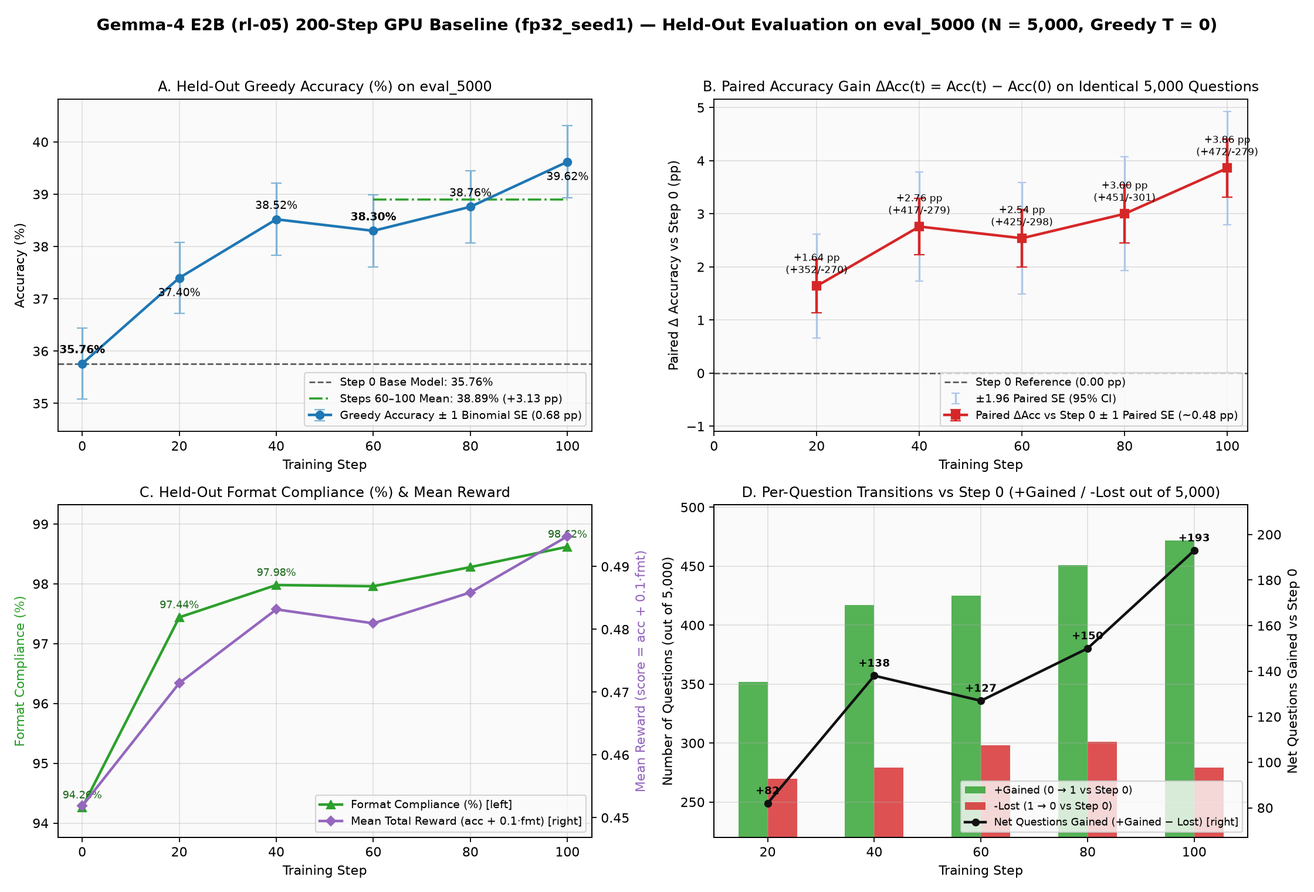
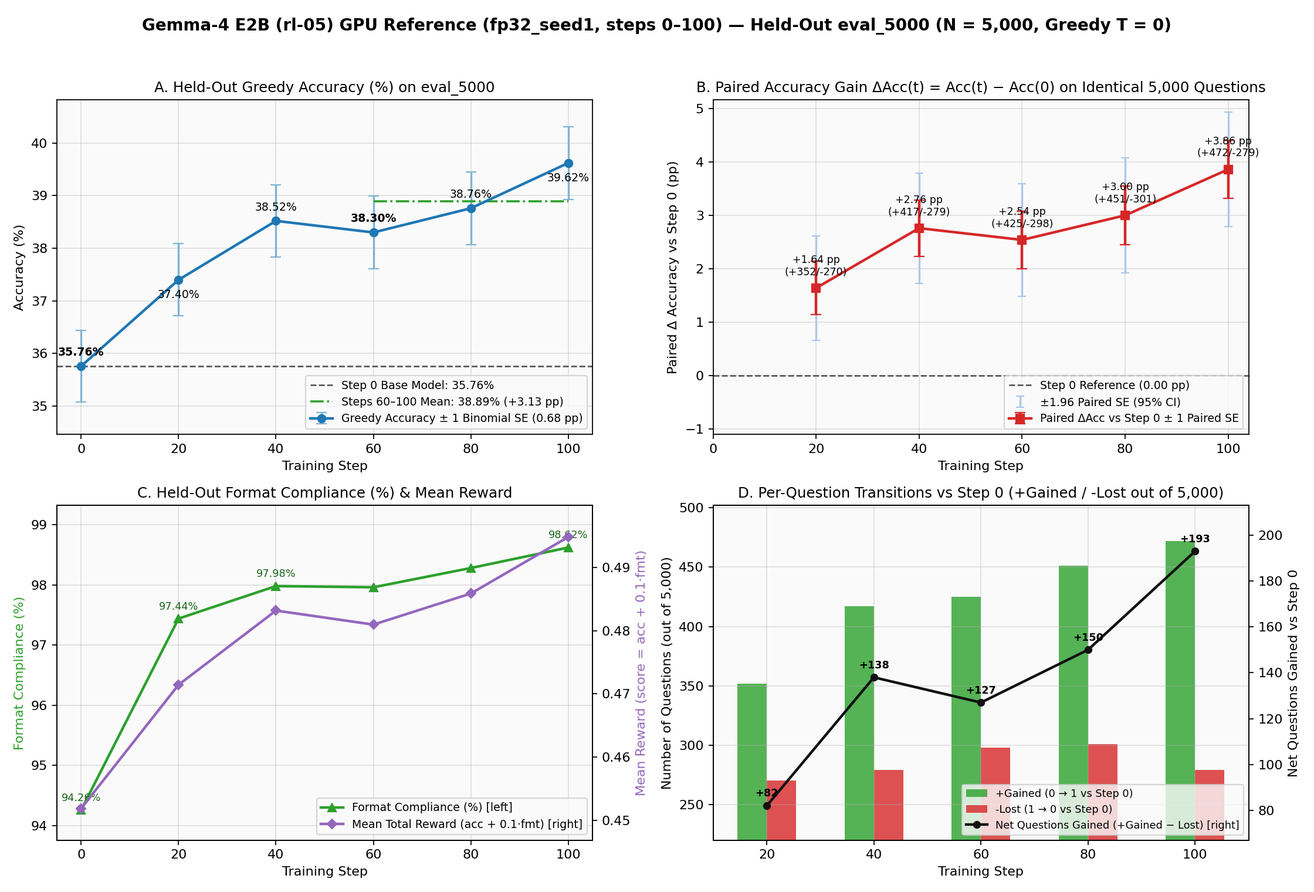
gemma4: clarify precision reproduction and 100-step learning report
Make the BF16 probe override explicit, render plots for the reported step range without clipping shorter responses, and distinguish demonstrated FP32 learning from pending recipe optimization.

Validation: Python compilation; regenerate both 0-100 plots from unchanged summary data; verify PNG integrity and plotted ranges. No GPU rerun.

Assisted-by: Codex

diff --git a/examples/grpo_trainer/my_scripts_GKE_gemma4/gemma4_eval_report.py b/examples/grpo_trainer/my_scripts_GKE_gemma4/gemma4_eval_report.py
@@ -1,5 +1,5 @@
 #!/usr/bin/env python3
-"""Summarize Gemma-4 200-step accuracy baseline runs from validation/training JSONL dumps and driver logs.
+"""Summarize Gemma-4 accuracy runs from validation/training JSONL dumps and driver logs.
 
 Usage:
     python3 gemma4_eval_report.py \
@@ -226,7 +226,7 @@ def _plot_run(label: str, data: dict, plot_dir: pathlib.Path) -> list[pathlib.Pa
     # Figure 1: Held-out eval_5000 curve (4 panels)
     fig, axes = plt.subplots(2, 2, figsize=(14, 9.5), dpi=160)
     fig.suptitle(
-        f"Gemma-4 E2B (rl-05) 200-Step GPU Baseline ({label}) — Held-Out Evaluation on eval_5000 (N = 5,000, Greedy T = 0)",
+        f"Gemma-4 E2B (rl-05) GPU Reference ({label}, steps {steps_v[0]}–{steps_v[-1]}) — Held-Out eval_5000 (N = 5,000, Greedy T = 0)",
         fontsize=12.5, fontweight="bold", y=0.98,
     )
 
@@ -266,7 +266,7 @@ def _plot_run(label: str, data: dict, plot_dir: pathlib.Path) -> list[pathlib.Pa
         ax.errorbar(
             steps_v[1:], delta_v[1:], yerr=delta_se_v[1:], fmt="-s", color="#d62728",
             ecolor="#d62728", elinewidth=2.0, capsize=4, markersize=6, linewidth=2.0,
-            label="Paired ΔAcc vs Step 0 ± 1 Paired SE (~0.48 pp)",
+            label="Paired ΔAcc vs Step 0 ± 1 Paired SE",
         )
         for s, d, g, l in zip(steps_v[1:], delta_v[1:], gained_v[1:], lost_v[1:]):
             ax.annotate(
@@ -344,7 +344,7 @@ def _plot_run(label: str, data: dict, plot_dir: pathlib.Path) -> list[pathlib.Pa
 
     fig, axes = plt.subplots(2, 2, figsize=(14, 9.5), dpi=160)
     fig.suptitle(
-        f"Gemma-4 E2B (rl-05) 200-Step GPU Baseline ({label}) — Online Training & Numerical Guard Diagnostics (16n64g)",
+        f"Gemma-4 E2B (rl-05) GPU Reference ({label}, steps {ts[0]}–{ts[-1]}) — Training & Numerical Guard Diagnostics (16n64g)",
         fontsize=12.5, fontweight="bold", y=0.98,
     )
 
@@ -353,7 +353,7 @@ def _plot_run(label: str, data: dict, plot_dir: pathlib.Path) -> list[pathlib.Pa
     ax.plot(ts, _rolling(tr_acc, 20), color="#1f77b4", linewidth=2.2, label=f"20-step Rolling Mean Acc ({statistics.mean(tr_acc[:20]):.2f}% → {statistics.mean(tr_acc[-20:]):.2f}%)")
     ax2 = ax.twinx()
     ax2.plot(ts, _rolling(tr_fmt, 20), color="#2ca02c", linestyle="--", linewidth=1.8, label=f"20-step Rolling Format ({statistics.mean(tr_fmt[:20]):.2f}% → {statistics.mean(tr_fmt[-20:]):.2f}%) [right]")
-    ax.set_title("A. Online Training Rollout Accuracy & Format Rate (Steps 1–200)")
+    ax.set_title(f"A. Online Training Rollout Accuracy & Format Rate (Steps {ts[0]}–{ts[-1]})")
     ax.set_xlabel("Training Step")
     ax.set_ylabel("Sampled Train Accuracy (%)", color="#1f77b4")
     ax2.set_ylabel("Sampled Format Compliance (%)", color="#2ca02c")
@@ -369,7 +369,7 @@ def _plot_run(label: str, data: dict, plot_dir: pathlib.Path) -> list[pathlib.Pa
     ax.axhline(statistics.median(k3_kl) * 1e3, color="#8c1515", linestyle="--", linewidth=1.2)
     ax2 = ax.twinx()
     ax2.plot(ts, pearson, color="#1f77b4", linewidth=1.2, alpha=0.75, label=f"Pearson(p_train, p_rollout): med={statistics.median(pearson):.5f} [right]")
-    ax.set_title("B. Trainer–Sampler Log-Prob Parity Across All 200 Steps (Pre-Fix k3_kl was ~980–1350 ×10⁻³)")
+    ax.set_title(f"B. Trainer–Sampler Log-Prob Parity (Steps {ts[0]}–{ts[-1]}; Pre-Fix k3_kl ~980–1350 ×10⁻³)")
     ax.set_xlabel("Training Step")
     ax.set_ylabel("rollout_corr/k3_kl (× 10⁻³)", color="#d62728")
     ax2.set_ylabel("Pearson Correlation", color="#1f77b4")
@@ -385,7 +385,7 @@ def _plot_run(label: str, data: dict, plot_dir: pathlib.Path) -> list[pathlib.Pa
     ax.plot(ts, _rolling(grad_norm, 15), color="#d95f02", linewidth=2.0, label="15-step Rolling Mean grad_norm")
     ax2 = ax.twinx()
     ax2.plot(ts, entropy, color="#9467bd", linewidth=1.6, label=f"actor/entropy ({entropy[0]:.3f} → {entropy[-1]:.3f}) [right]")
-    ax.set_title("C. Actor Gradient Norm & Policy Entropy (Steps 1–200)")
+    ax.set_title(f"C. Actor Gradient Norm & Policy Entropy (Steps {ts[0]}–{ts[-1]})")
     ax.set_xlabel("Training Step")
     ax.set_ylabel("actor/grad_norm (post-fix; pre-fix was 10–350)", color="#d95f02")
     ax2.set_ylabel("actor/entropy", color="#9467bd")
@@ -400,12 +400,13 @@ def _plot_run(label: str, data: dict, plot_dir: pathlib.Path) -> list[pathlib.Pa
     ax.plot(ts, resp_len, color="#2ca02c", alpha=0.45, linewidth=1.0)
     ax.plot(ts, _rolling(resp_len, 15), color="#1b7837", linewidth=2.0, label=f"Mean Response Length (med={statistics.median(resp_len):.0f} tok)")
     ax2 = ax.twinx()
-    ax2.plot(ts[1:], step_s[1:], color="#555555", alpha=0.55, linewidth=1.2, label=f"timing_s/step (steps 2–200 med={statistics.median(step_s[1:]):.1f}s, p90={sorted(step_s[1:])[int(0.9*len(step_s[1:]))]:.1f}s) [right]")
+    if len(ts) > 1:
+        ax2.plot(ts[1:], step_s[1:], color="#555555", alpha=0.55, linewidth=1.2, label=f"timing_s/step (steps {ts[1]}–{ts[-1]} med={statistics.median(step_s[1:]):.1f}s, p90={sorted(step_s[1:])[int(0.9*len(step_s[1:]))]:.1f}s) [right]")
     ax.set_title("D. Mean Response Length (Tokens) & Trainer Step Time (s)")
     ax.set_xlabel("Training Step")
     ax.set_ylabel("Mean Response Length (tokens)", color="#1b7837")
     ax2.set_ylabel("timing_s/step (s)", color="#555555")
-    ax.set_ylim(1600, 2100)
+    ax.margins(y=0.08)  # Keep every response-length point visible as the recipe changes.
     ax2.set_ylim(50, 115)
     # Annotate step times above the clipped axis instead of silently cutting them off.
     gen_s = [log_steps[s].get("timing_s/gen", float("nan")) for s in ts]
@@ -432,6 +433,7 @@ def main() -> int:
     ap.add_argument("--run", action="append", default=[], help="label=/path/to/eval_dump_dir")
     ap.add_argument("--log", action="append", default=[], help="label=/path/to/driver.log")
     ap.add_argument("--from-json", default="", help="Load pre-computed summary JSON instead of re-reading dumps")
+    ap.add_argument("--max-step", type=int, default=None, help="Report and plot only steps at or below this value")
     ap.add_argument("--expected-n", type=int, default=5000)
     ap.add_argument("--out-json", default="")
     ap.add_argument("--out-md", default="")
@@ -449,6 +451,13 @@ def main() -> int:
             label: _summarize_run(label, rdir, log_map.get(label), args.expected_n)
             for label, rdir in run_map.items()
         }
+    if args.max_step is not None:
+        for data in runs.values():
+            data["val_steps"] = [v for v in data["val_steps"] if v["step"] <= args.max_step]
+            for key in ("train_steps", "log_steps"):
+                data[key] = {s: v for s, v in data.get(key, {}).items() if int(s) <= args.max_step}
+            data["n_train_steps_dumped"] = len(data["train_steps"])
+            data["n_train_steps_logged"] = len(data["log_steps"])
     md = _render_md(runs)
     print(md)
     if args.out_md:

diff --git a/examples/grpo_trainer/my_scripts_GKE_gemma4/UPDATE_PRECISION_RESULTS.md b/examples/grpo_trainer/my_scripts_GKE_gemma4/UPDATE_PRECISION_RESULTS.md
@@ -3,7 +3,7 @@
 Plan and checklist: [UPDATE_PRECISION_PLAN.md](UPDATE_PRECISION_PLAN.md). This file records measured results per plan item, including negative or inconclusive ones. Evidence lives in [`update_precision/`](update_precision/).
 
 > [!IMPORTANT]
-> **Status:** items 1–3 are complete. Item 4: the frozen FP32 seed 1 was stopped at step 107 by decision, and steps 0–100 are reported in §4. The search for a recipe that clearly learns continues in PR #11, with 100-step single-factor ablations.
+> **Status:** items 1–3 are complete. Item 4: the frozen FP32 seed 1 was stopped at step 107 by decision, and steps 0–100 are reported in §4. FP32 clearly learns; recipe optimization continues in PR #11 with 100-step single-factor ablations.
 >
 > **What is established:**
 > - In the original recipe the optimizer holds BF16 parameters and BF16 Adam moments, and most of each AdamW update is lost when it is written back to the BF16 weights (item 2).
@@ -13,7 +13,7 @@ Plan and checklist: [UPDATE_PRECISION_PLAN.md](UPDATE_PRECISION_PLAN.md). This f
 > **What is not established:**
 > - A 200-step endpoint; the run did not reach it.
 > - The spread across seeds.
-> - A learning speed that is good enough. By step 100 the gain is about a third of what Qwen3-0.6B `stab_kl0` reached on its own held-out set (+12.1 pp, 3-seed mean).
+> - An optimized recipe or a learning plateau. Qwen3-0.6B `stab_kl0` gained +12.1 pp by step 100 on its own held-out set (3-seed mean), but the different model, held-out set and recipe make this context for optimization, not an acceptance threshold for Gemma.
 
 ## Summary
 
@@ -26,7 +26,7 @@ Plan and checklist: [UPDATE_PRECISION_PLAN.md](UPDATE_PRECISION_PLAN.md). This f
 | Which part loses the update? | **Write-back rounding.** On the same gradients, BF16 moments with FP32 write-back reproduce the intended update (cos 1.0000); FP32 moments with BF16 write-back lose as much as the real optimizer (‖·‖/‖ideal‖ 0.166 / 0.116). The changed set matches the round-to-nearest prediction (99.5% / 99.6%). Every parameter category is affected, including norms. | §2.3–2.4 |
 | What does the rollout see? | Per step, about 0.5% of BF16 casts change in both runs; with an FP32 master the visible change accumulates (0.494% → 0.593% after two steps), with BF16 it does not (0.498% → 0.493%). | §2.4 |
 | Does FP32 persistent precision learn faster (60 steps, seed 1, identical prompts)? | **Yes, on the training distribution:** training-accuracy gap FP32 − BF16 grows from +0.24 pp (steps 1–10) to **+1.87 pp (steps 41–60; FP32 ahead in 19 of 20 steps)**; format 99.8% vs 99.0%. **Held-out:** FP32 vs its own step 0 **+1.40 / +2.02 / +2.20 pp** at steps 20 / 40 / 60 (all intervals exclude 0). FP32 − BF16 is +0.90 / +1.30 / +0.72 pp; only step 40's interval excludes 0. | §3 |
-| Does the frozen FP32 recipe learn over 100 steps (seed 1)? | **Yes, but slowly.** Held-out 35.76% → **39.62%** at step 100: +3.86 pp vs its own step 0 (95% [+2.82, +4.96]) and +2.70 pp vs BF16 at the same step ([+1.64, +3.74]). On the same training prompts as BF16, training accuracy is +2.72 pp higher in steps 81–100 (FP32 ahead in 20 of 20 steps). For comparison, Qwen3-0.6B `stab_kl0` gained +12.1 pp by step 100 on its own held-out set. The run was stopped at step 107 by decision. | §4 |
+| Does the frozen FP32 recipe learn over 100 steps (seed 1)? | **Yes; recipe optimization remains open.** Held-out 35.76% → **39.62%** at step 100: +3.86 pp vs its own step 0 (95% [+2.82, +4.96]) and +2.70 pp vs BF16 at the same step ([+1.64, +3.74]). On the same training prompts as BF16, training accuracy is +2.72 pp higher in steps 81–100 (FP32 ahead in 20 of 20 steps). Qwen3-0.6B `stab_kl0` gained +12.1 pp by step 100 on its own held-out set; the differing model, split and recipe prevent a direct learning-speed comparison. The run was stopped at step 107 by decision. | §4 |
 
 ## 1. Audit of existing evidence (plan item 1)
 
@@ -105,7 +105,7 @@ Applied in this PR to [EVAL_PROTOCOL.md](EVAL_PROTOCOL.md) §5 and [README.md](R
 
 The CPU self-test ([`test_gemma4_optim_probe.py`](test_gemma4_optim_probe.py), [output](update_precision/probe/selftest.txt)) checks the probe on a toy model: FP32 parameters change 100% with applied = ideal; BF16 parameters match the round-to-nearest prediction to within ties.
 
-Runs: `NNODES=16 TOTAL_STEPS=2` through `run_gemma4_e2b_rl05_parity.sh` with seed 1 (the same first batches as PR #9 seed 1), once as-is (BF16) and once with the single override `++actor_rollout_ref.actor.fsdp_config.model_dtype=fp32`. Both runs passed the RoPE guard on 64 / 64 ranks ([BF16](update_precision/probe/v1_bf16_guard_check.txt), [FP32](update_precision/probe/v1_fp32_guard_check.txt)); `k3_kl` = 0.00071 / 0.00072 in both; peak reserved memory 57–61 GB in both; step 2 took 61.0 s (BF16) and 64.2 s (FP32).
+Runs: `NNODES=16 TOTAL_STEPS=2` through the then-current BF16 `run_gemma4_e2b_rl05_parity.sh` (sha256 `8646c173…`) with seed 1 (the same first batches as PR #9 seed 1), once as-is (BF16) and once with the single override `++actor_rollout_ref.actor.fsdp_config.model_dtype=fp32`. The current launcher defaults to FP32; reproduction commands below explicitly select BF16 for that arm. Both runs passed the RoPE guard on 64 / 64 ranks ([BF16](update_precision/probe/v1_bf16_guard_check.txt), [FP32](update_precision/probe/v1_fp32_guard_check.txt)); `k3_kl` = 0.00071 / 0.00072 in both; peak reserved memory 57–61 GB in both; step 2 took 61.0 s (BF16) and 64.2 s (FP32).
 
 ### 2.2 Runtime dtypes and settings (all 64 ranks)
 
@@ -318,7 +318,7 @@ Wall time is longer than `timing_s/step`. The training progress bar averaged abo
   - Held-out accuracy is above FP32's own step 0 at every checkpoint, with intervals excluding zero from step 20 on. The gain reaches +3.86 pp at step 100, where FP32 − BF16 is +2.70 pp [+1.64, +3.74].
   - On identical training prompts, the FP32 − BF16 gap grows from +0.08 pp (steps 1–10) to +2.72 pp (steps 81–100).
   - This is one seed: strong directional evidence, not a multi-seed result.
-- **The learning is slow.** Qwen3-0.6B `stab_kl0` (64 GB200, 3 seeds) went from 36.9% to 49.0% by step 100 on its own 1,000-question OMI-2 held-out set, a gain of +12.1 pp. Gemma FP32 gained +3.86 pp. The two numbers are not directly comparable, because the model, the held-out set and the recipe all differ. Still, the gap is large enough that the current recipe does not yet count as effective.
+- **FP32 clearly learns, but recipe optimization remains open.** Qwen3-0.6B `stab_kl0` (64 GB200, 3 seeds) went from 36.9% to 49.0% by step 100 on its own 1,000-question OMI-2 held-out set, a gain of +12.1 pp. Gemma FP32 gained +3.86 pp. The model, held-out set and recipe all differ, so Qwen provides context for further optimization, not an acceptance threshold for Gemma. The stop at step 107 closes this precision investigation; it does not establish a learning plateau.
 - **Observations that may explain the gap (not yet tested):**
   - *Signal density.* In every 20-step window, only 25.5–27.1% of Gemma FP32's GRPO groups have mixed correctness; 45–49% are all-correct and about 25% all-wrong. For Qwen `stab_kl0` (3 seeds) the mixed share is 50–59%. Gemma gets about half as many informative prompts per step.
   - *Training vs held-out difficulty.* Gemma's sampled training accuracy is ~60%, while its greedy held-out accuracy is ~36%. `eval_5000` keeps only questions that do not overlap the training file, and for Gemma these are clearly harder than the training prompts. For Qwen the two numbers are closer: 42–43% sampled vs 36.9% greedy, on a question-level split.
@@ -332,7 +332,7 @@ Wall time is longer than `timing_s/step`. The training progress bar averaged abo
 
 ### 4.6 Handoff to PR #11
 
-- **Setup:** from PR #11 on, every run is 100 steps. The goal is a recipe that clearly learns, found by ablation.
+- **Setup:** PR #11 screens single-factor ablations over 100 steps to improve the already-learning FP32 recipe.
 - **Reference:** this run's steps 0–100 (frozen FP32 recipe, seed 1, eval every 20 steps under the frozen `eval_5000` protocol).
 - **One factor per run.** Each ablation is screened with seed 1 and compared at matched steps: held-out paired by `qid`, and training accuracy on identical prompts. Results are read against the same-recipe reproducibility in §4.3.
 - **Planned order:**
@@ -340,7 +340,7 @@ Wall time is longer than `timing_s/step`. The training progress bar averaged abo
   2. the double-wrapped prompt
   3. LR
 - **TPU reproducibility:** every lever must be reproducible on TPU, because the customer gate compares identical recipes.
-- **Multi-seed validation** comes after a recipe clearly learns.
+- **Multi-seed validation** follows selection and freezing of the optimized candidate recipe.
 - **Open for PR #11:** the endpoint and number of seeds for the final GPU reference. [EVAL_PROTOCOL.md](EVAL_PROTOCOL.md) still specifies the 3-seed step-200 mean.
 
 ## Reproduction
@@ -352,8 +352,10 @@ D=/workspace/meta-RL/verl/examples/grpo_trainer/my_scripts_GKE_gemma4
 # item 1: audit (CPU)
 python3 $D/gemma4_learning_signal.py --run-dir /workspace/meta-RL/logs/gemma4_eval/gemma4_e2b_rl05_16n64g_s200_seed1_1021_1955 \
   --replicate-run /workspace/meta-RL/logs/gemma4_eval/gemma4_e2b_rl05_16n64g_s200_seed2_1022_0301 --out-md audit.md --out-json audit.json
-# item 2: 2-step probe (add ++actor_rollout_ref.actor.fsdp_config.model_dtype=fp32 for the FP32 control)
+# item 2: BF16 2-step probe (current launcher defaults to FP32).
+# For the FP32 control, replace the bfloat16 override below with fp32.
 NNODES=16 TOTAL_STEPS=2 EXPERIMENT_NAME=<exp> bash $D/run_gemma4_e2b_rl05_parity.sh \
+  actor_rollout_ref.actor.fsdp_config.model_dtype=bfloat16 \
   data.seed=1 actor_rollout_ref.rollout.seed=1 actor_rollout_ref.actor.data_loader_seed=1 actor_rollout_ref.actor.fsdp_config.seed=1 \
   "++ray_kwargs.ray_init.runtime_env.py_modules=[\"$D/gemma4_optim_probe\"]" \
   ++ray_kwargs.ray_init.runtime_env.worker_process_setup_hook=gemma4_optim_probe.install \
@@ -382,4 +384,8 @@ python3 $D/gemma4_signal_density.py --run gemma_fp32_s1=$E/<exp4>/train --run ge
   --run qwen_stab_kl0_seed2=$L/qwen3_0p6b_phase0_stab_kl0_seed2_16n64g_20260913_1914/rollout_dump \
   --run qwen_stab_kl0_seed3=$L/qwen3_0p6b_phase0_stab_kl0_seed3_16n64g_20260913_2333/rollout_dump --out-json signal_density_s100.json
 python3 $D/gemma4_guard_check.py --log $L/<exp4>.log --guard-dir $L/gemma4_guard/<exp4> --world 64 --steps 100 --out guard_check.json
+# Regenerate the reported 0–100 figures from the preserved summary (which retains steps 101–107).
+python3 $D/gemma4_eval_report.py \
+  --from-json $D/update_precision/fp32_seed1_100steps/fp32_seed1_eval_report.json \
+  --max-step 100 --plot-dir $D/update_precision/fp32_seed1_100steps
 ```

diff --git a/examples/grpo_trainer/my_scripts_GKE_gemma4/README.md b/examples/grpo_trainer/my_scripts_GKE_gemma4/README.md
@@ -7,7 +7,7 @@ Colocated `verl` GRPO (DAPO clip-higher) launcher, GKE A4X (`a4x-highgpu-4g-a4x-
 > - Launch / training-flow smoke: **complete** (§3). Four steps with non-zero updates, driver `exit_code=0`.
 > - Numerical correctness: **fixed** ([LOGPROB_PARITY.md](LOGPROB_PARITY.md)). The FSDP trainer computed wrong log-probs on ~half of its ranks because RoPE buffers were scrambled at FSDP init; the vLLM rollout was correct. With [`patch_verl_gemma4_rope_buffers.py`](patch_verl_gemma4_rope_buffers.py) applied on every pod, trainer and rollout agree to bf16 noise (step 1 at T=1: `k3_kl` 0.98 → 0.00046, Pearson 0.51 → 0.9992). Trainer-side metrics from earlier runs (k3, entropy, `grad_norm`) are invalid. Their step times are kept as a historical record; the post-fix 4-step smoke shows no obvious regression (§3.2), but post-fix throughput has not been measured.
 > - Fix persistence and guard: the launcher now runs [`gemma4_node_prep.py`](gemma4_node_prep.py) on every launch, which brings every Ray node to "verl pin + managed patches" and aborts unless all nodes pass. Inside the trainer, the `[GEMMA4-ROPE]` guard checks every rank's RoPE buffers right after the FSDP wrap and fails the whole job if any rank is wrong ([ROPE_GUARD.md](ROPE_GUARD.md)).
-> - Accuracy / convergence: **single-seed BF16 reference only; no clear learning gain yet** (§4, [EVAL_PROTOCOL.md](EVAL_PROTOCOL.md)). The PR #9 BF16 seed 1 ran 200 steps stably (`k3_kl = 0.000640 – 0.000739`), but its held-out `eval_5000` change at the predeclared step-200 endpoint is **+0.54 pp** (36.26% → 36.80%, question-paired bootstrap 95% [−0.48, +1.48] pp), the same size as the difference between two greedy evals of identical weights. Seeds 2/3 of this recipe are on hold. [PR #10](UPDATE_PRECISION_RESULTS.md) measured that the BF16 optimizer path writes back only 12–17% of each AdamW update; in a 60-step A/B on identical prompts, FP32 persistent weights and moments learned faster (training accuracy +1.87 pp in steps 41–60; held-out +2.20 pp vs its own step 0 at step 60). The FP32 configuration is now frozen in the launcher (sha256 `7d511735…`). Its seed 1 was stopped at step 107 by decision. At step 100, held-out accuracy is **39.62%**: +3.86 pp vs its own step 0 (95% [+2.82, +4.96]) and +2.70 pp vs BF16 at the same step ([+1.64, +3.74]). It learns, but slowly; Qwen3-0.6B `stab_kl0` gained +12.1 pp by step 100 on its own held-out set. Recipe ablations, with 100-step runs, continue in PR #11 ([UPDATE_PRECISION_RESULTS.md](UPDATE_PRECISION_RESULTS.md) §4).
+> - Accuracy / convergence: **FP32 seed 1 clearly learns; recipe optimization and multi-seed validation remain open** (§4, [EVAL_PROTOCOL.md](EVAL_PROTOCOL.md)). The PR #9 BF16 seed 1 ran 200 steps stably (`k3_kl = 0.000640 – 0.000739`), but its held-out `eval_5000` change at the predeclared step-200 endpoint is **+0.54 pp** (36.26% → 36.80%, question-paired bootstrap 95% [−0.48, +1.48] pp), the same size as the difference between two greedy evals of identical weights. Seeds 2/3 of this recipe are on hold. [PR #10](UPDATE_PRECISION_RESULTS.md) measured that the BF16 optimizer path retained only 12–17% of the intended AdamW update norm in the two-step probe; in a 60-step A/B on identical prompts, FP32 persistent weights and moments learned faster (training accuracy +1.87 pp in steps 41–60; held-out +2.20 pp vs its own step 0 at step 60). The FP32 configuration is now frozen in the launcher (sha256 `7d511735…`). Its seed 1 was stopped at step 107 by decision. At step 100, held-out accuracy is **39.62%**: +3.86 pp vs its own step 0 (95% [+2.82, +4.96]) and +2.70 pp vs BF16 at the same step ([+1.64, +3.74]). FP32 clearly learns, but recipe optimization remains open. Qwen3-0.6B `stab_kl0` gained +12.1 pp by step 100 on its own held-out set; differences in model, held-out set and recipe make this context, not an acceptance threshold. Recipe ablations, with 100-step screens, continue in PR #11 ([UPDATE_PRECISION_RESULTS.md](UPDATE_PRECISION_RESULTS.md) §4).
 
 ---
 

diff --git a/examples/grpo_trainer/my_scripts_GKE_gemma4/UPDATE_PRECISION_PLAN.md b/examples/grpo_trainer/my_scripts_GKE_gemma4/UPDATE_PRECISION_PLAN.md
@@ -49,12 +49,12 @@ Short runs establish numerical and operational behavior; they do not establish a
 
 > Revised order after the `ab70122` review: (1) FP32 seed 1 for the full 200 steps; (2) single-variable optimization against that curve, compared under the fixed eval on accuracy vs steps and vs wall time, screened with seed 1; (3) select and freeze the recipe that balances accuracy and training efficiency, then validate it with multiple seeds. FP32 fixes update precision but is not yet the optimized recipe.
 >
-> **Decision on 2026-10-22 at step ~105:** stop the FP32 run, report steps 0–100 in this PR, and move the ablation study to PR #11, where every run is 100 steps. The goal there is a recipe that clearly learns. At step 100 the FP32 run learns (held-out +3.86 pp vs its own step 0), but much more slowly than the Qwen3-0.6B `stab_kl0` reference (+12.1 pp by step 100).
+> **Decision on 2026-10-22 at step ~105:** stop the FP32 run, report steps 0–100 in this PR, and move the ablation study to PR #11, with 100-step screens to optimize the already-learning FP32 recipe. At step 100 the FP32 run gains +3.86 pp held-out vs its own step 0. Qwen3-0.6B `stab_kl0` gained +12.1 pp by step 100 on a different held-out set and recipe; that is context for optimization, not an acceptance threshold or evidence of a Gemma learning plateau.
 
 - [x] Freeze the chosen candidate recipe before running a controlled 200-step seed 1 with the existing 5,000-question greedy eval protocol. — done: FP32 frozen in `run_gemma4_e2b_rl05_parity.sh` (sha256 `7d511735…`, commit `203b40f`). Seed 1 `gemma4_e2b_rl05fp32_16n64g_s200_seed1_1022_2019` ran 107 steps and was then stopped by decision.
 - [ ] Report the full trajectory and the predeclared step-200 endpoint, with question-paired uncertainty after identity validation. Do not replace the endpoint with the best checkpoint. — **not done:** the run was stopped at step 107. The trajectory for steps 0–100 is reported with question-paired intervals at every checkpoint ([results](UPDATE_PRECISION_RESULTS.md#41-held-out-eval_5000-greedy-paired-by-qid) §4.1). Step 100 is reported because it is the last checkpoint evaluated, not because it is the best one.
 - [x] Compare learning behavior, trainer–sampler consistency, response lengths and cost against the preserved BF16 reference. — done for steps 1–100 ([results](UPDATE_PRECISION_RESULTS.md#4-fp32-seed-1-steps-0100-plan-item-4--stopped-at-step-107) §4.2–4.4).
-- [x] Decide whether the evidence justifies freezing the candidate and launching seeds 2/3. If gains remain unclear, document that outcome and the next diagnostic decision rather than claiming convergence. — decided: no seeds 2/3 of this recipe. FP32 learns, but too slowly to be the reference. The next step is single-factor ablations in PR #11 ([results](UPDATE_PRECISION_RESULTS.md#46-handoff-to-pr-11) §4.6).
+- [x] Decide whether the evidence justifies freezing the candidate and launching seeds 2/3. If gains remain unclear, document that outcome and the next diagnostic decision rather than claiming convergence. — decided: defer seeds 2/3 while optimizing the recipe. FP32 clearly learns, and its steps 0–100 serve as the ablation reference; the final optimized reference remains open. The next step is single-factor ablations in PR #11 ([results](UPDATE_PRECISION_RESULTS.md#46-handoff-to-pr-11) §4.6).
 - [x] Keep different precision/recipe cohorts separate. A revised seed 1 must not be pooled with original BF16 seeds for the three-seed reference. — done: the BF16 seeds, the 60-step FP32 A/B run and the frozen-FP32 run are reported separately; nothing is pooled.
 
 The shared eval protocol remains fixed. A comparable GPU/TPU gate reference still requires the agreed final recipe and its three-seed endpoint results; this investigation alone does not establish the customer accuracy gate.
